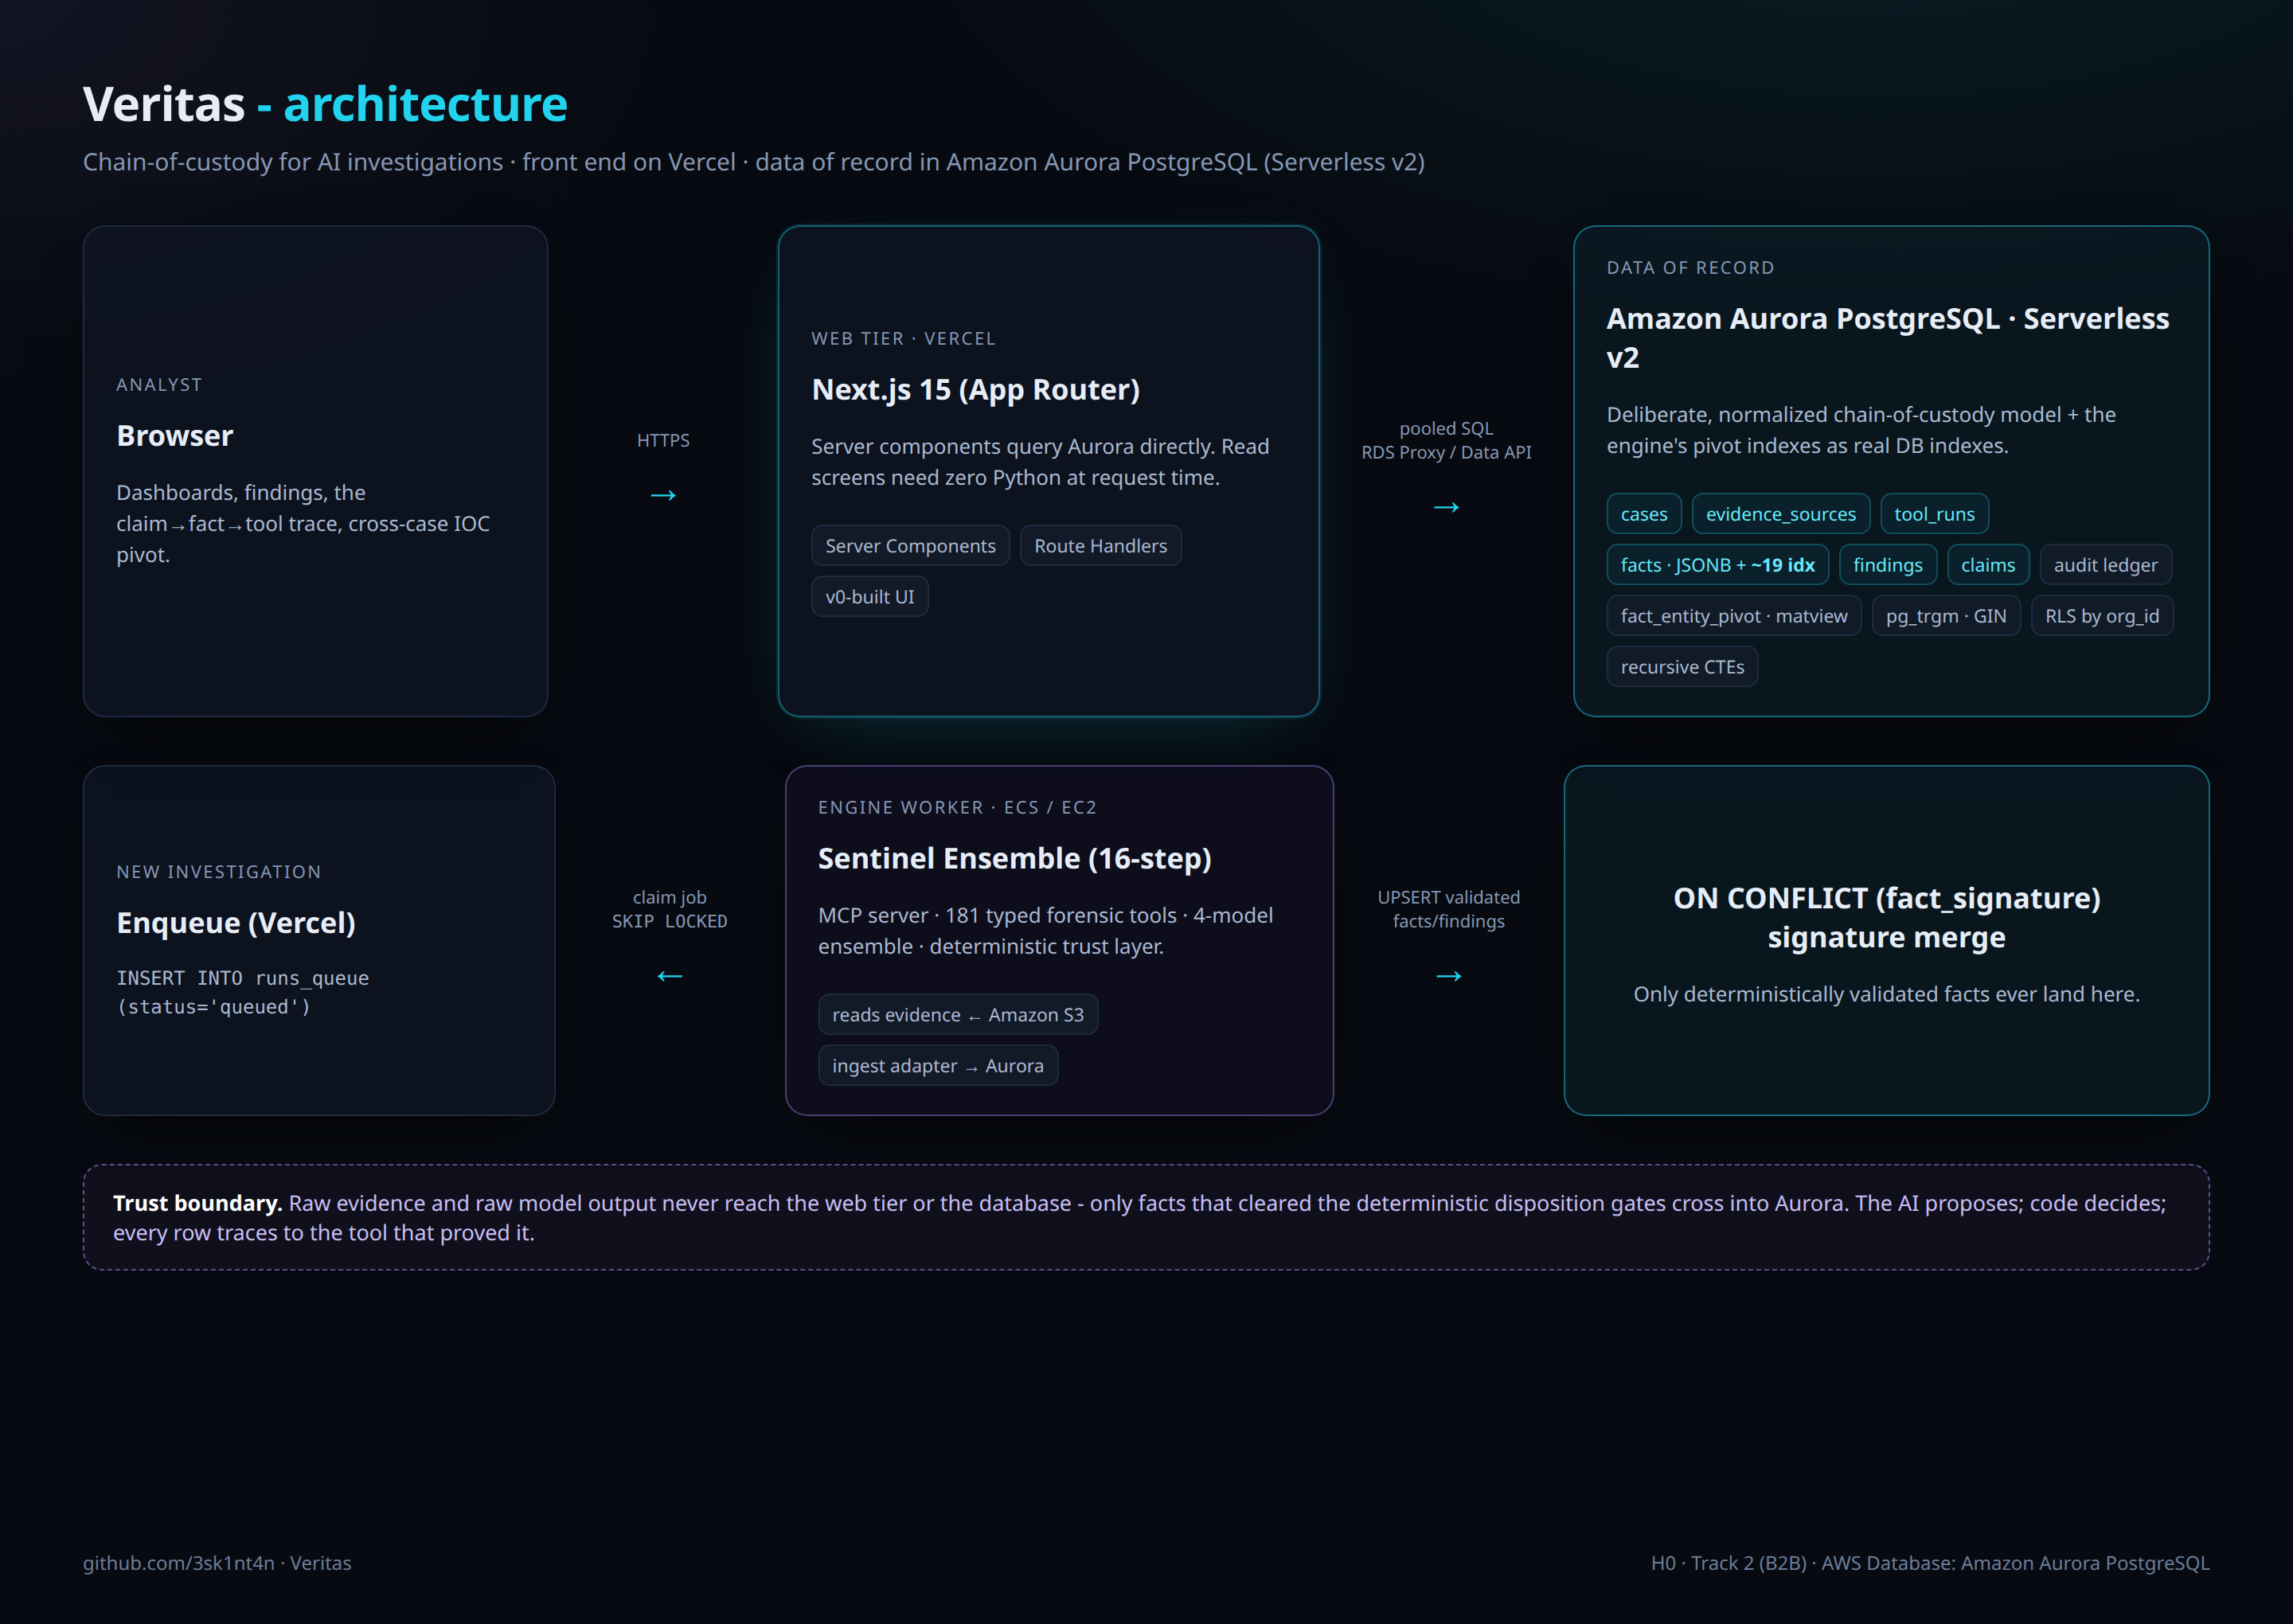
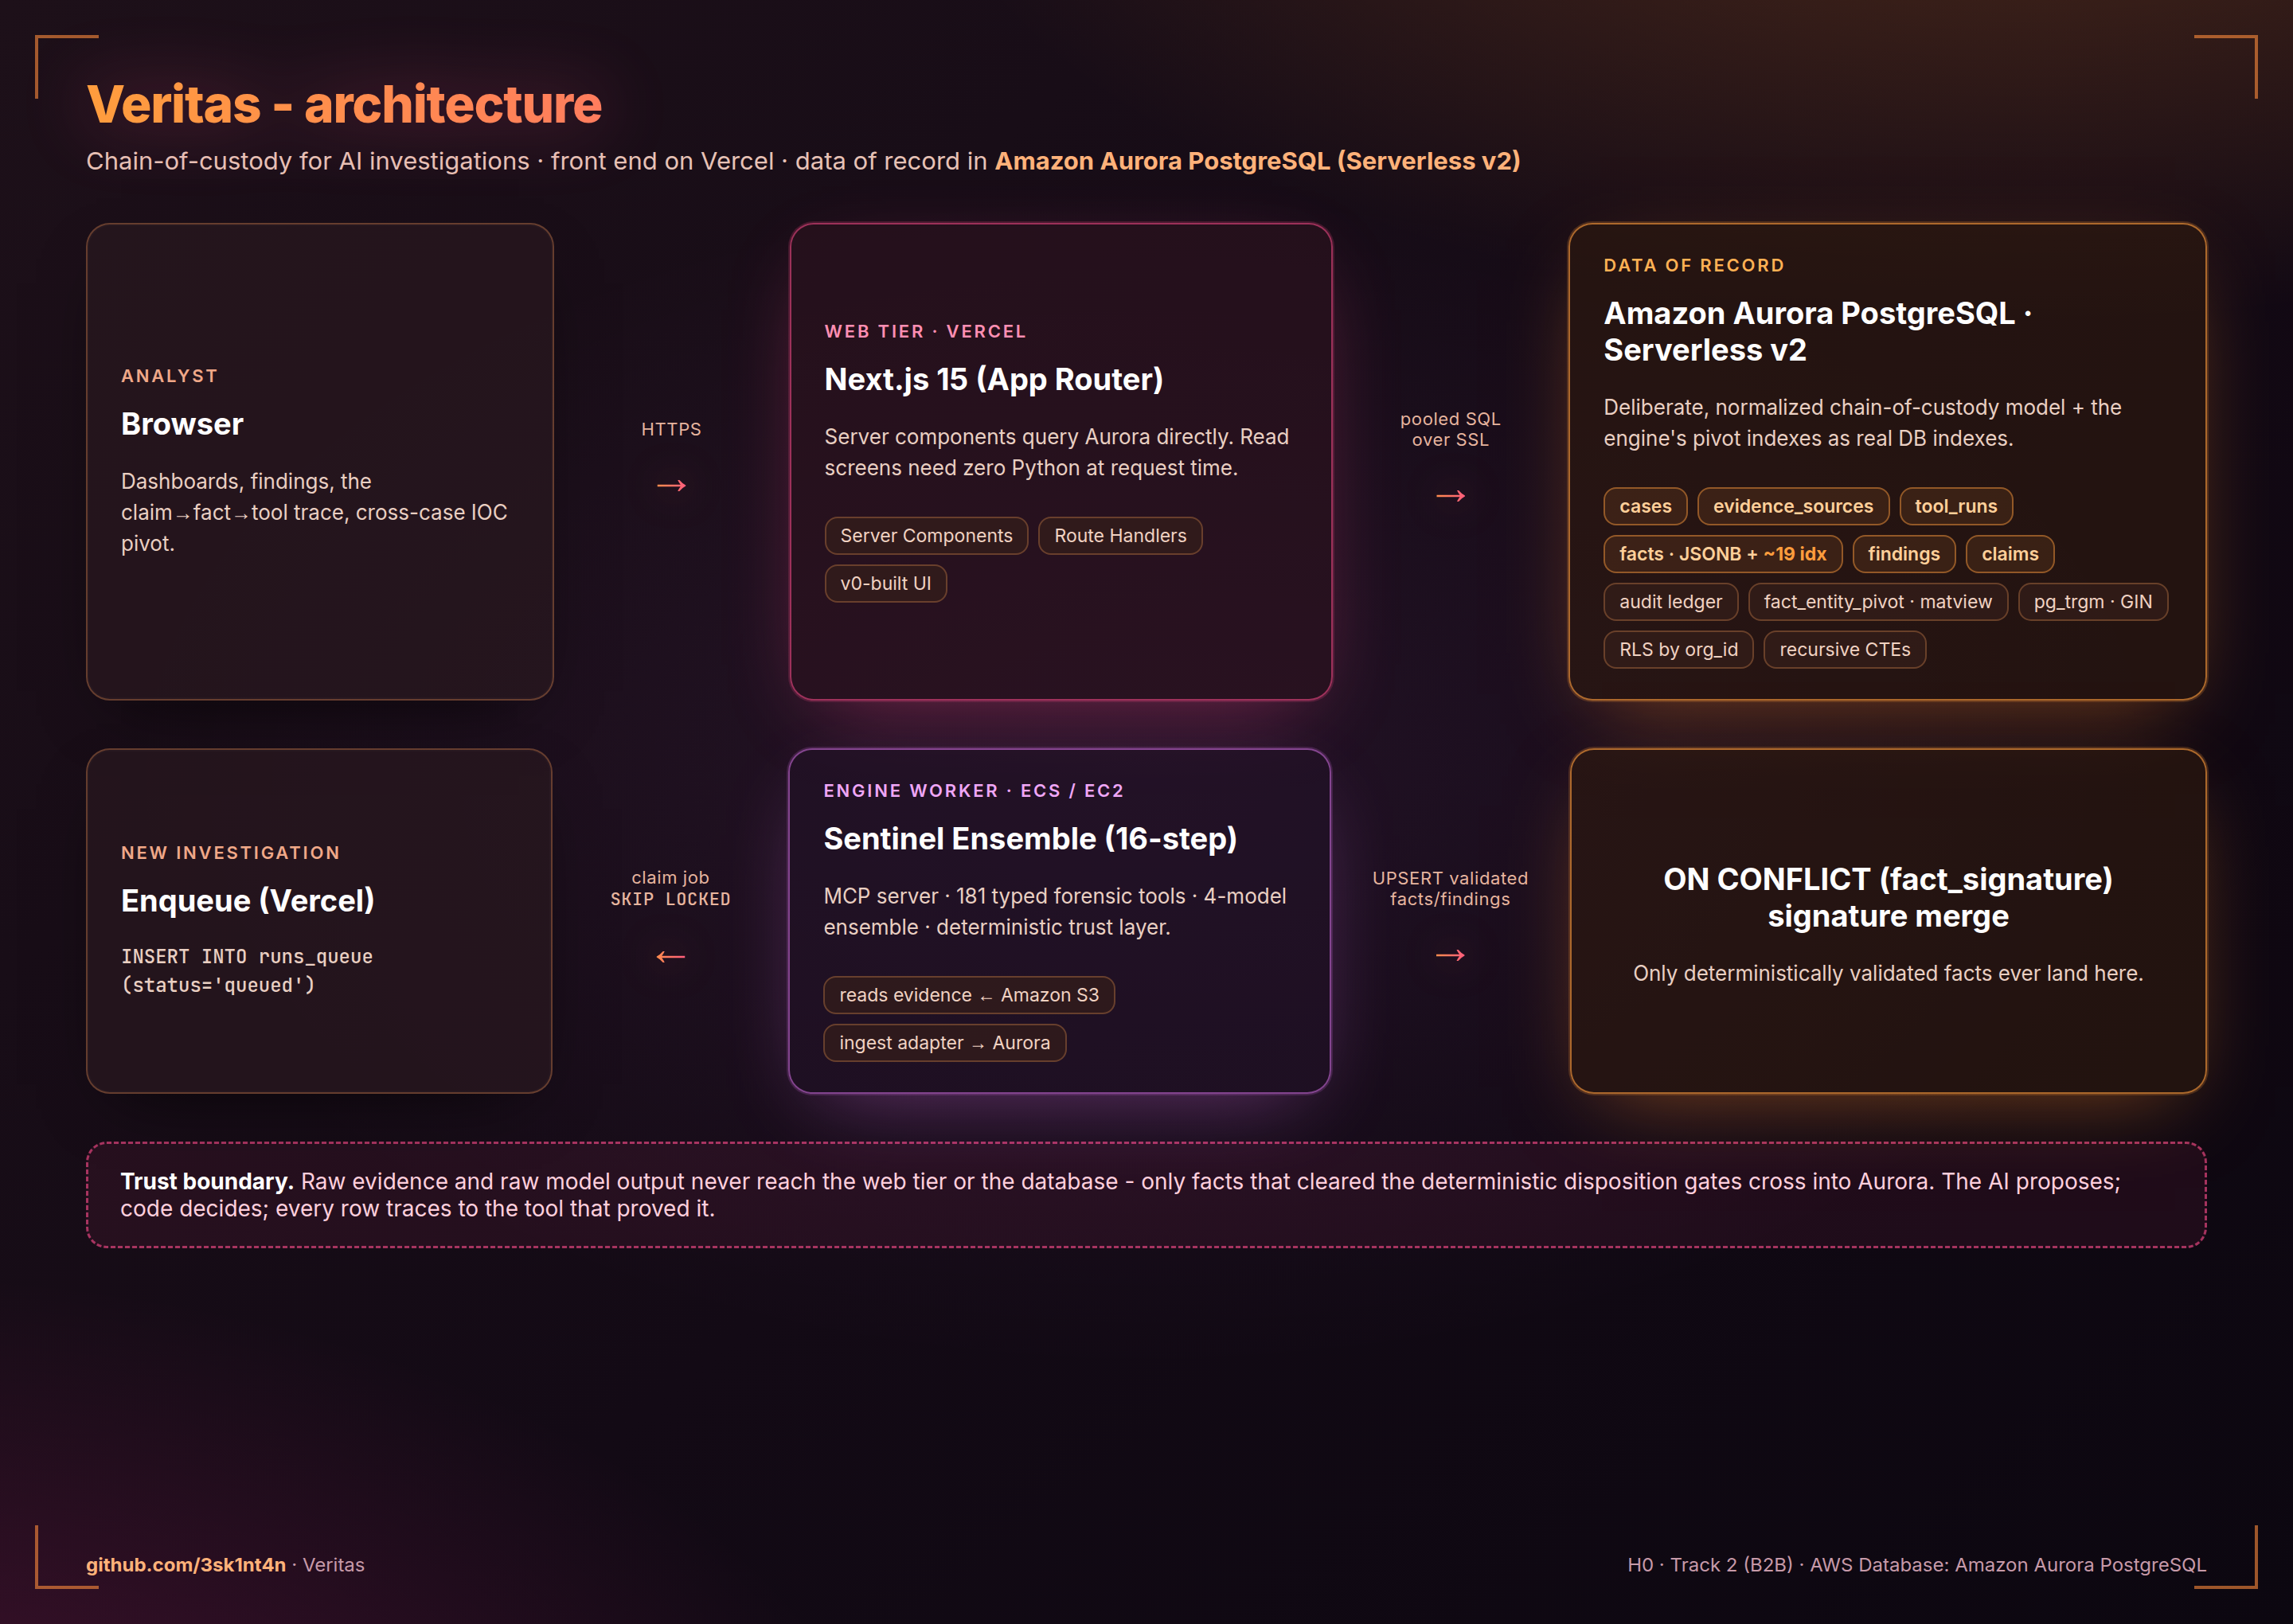
feat(video): bright orange/pink architecture diagram, open video on the pipeline
Redesign architecture.png with a warm bright palette (dark-orange + hot-pink + magenta
accents, vivid glows, sharp corner brackets) instead of the dark cyan look. Reorder the
deck so it COLD-OPENS on the pipeline diagram, then the title. Re-rendered at 2x; no em-dash.

diff --git a/docs/architecture.html b/docs/architecture.html
@@ -2,73 +2,97 @@
 <html lang="en">
 <head>
 <meta charset="utf-8" />
+<link rel="preconnect" href="https://fonts.googleapis.com">
+<link href="https://fonts.googleapis.com/css2?family=Inter:wght@400;600;700;800&family=JetBrains+Mono:wght@500;600&display=swap" rel="stylesheet">
 <style>
   * { margin: 0; padding: 0; box-sizing: border-box; }
   body {
-    width: 1440px; height: 1020px; padding: 44px 52px;
-    font-family: "Inter", system-ui, sans-serif; color: #e6edf6;
+    width: 1440px; height: 1020px; padding: 46px 54px;
+    font-family: "Inter", system-ui, sans-serif; color: #f6ecf0; position: relative;
     background:
-      radial-gradient(1100px 500px at 82% -8%, rgba(34,211,238,.10), transparent 60%),
-      radial-gradient(800px 460px at 0% 0%, rgba(167,139,250,.08), transparent 55%),
-      #070a10;
+      radial-gradient(1200px 560px at 88% -12%, rgba(255,140,40,.24), transparent 58%),
+      radial-gradient(1100px 640px at -6% 116%, rgba(255,45,149,.22), transparent 60%),
+      radial-gradient(900px 520px at 50% 48%, rgba(232,121,249,.07), transparent 72%),
+      linear-gradient(140deg, #1d1019 0%, #130a15 55%, #0c0710 100%);
   }
   .mono { font-family: "JetBrains Mono", ui-monospace, monospace; }
-  h1 { font-size: 30px; font-weight: 700; letter-spacing: -.5px; }
-  h1 .c { color: #22d3ee; }
-  .sub { color: #8597b3; font-size: 15px; margin-top: 6px; }
+  h1 { font-size: 32px; font-weight: 800; letter-spacing: -.6px;
+       background: linear-gradient(90deg,#ff9d3d,#ff4d8d 60%,#e879f9);
+       -webkit-background-clip: text; background-clip: text; color: transparent;
+       filter: drop-shadow(0 0 22px rgba(255,77,141,.40)); }
+  .sub { color: #e7c2b6; font-size: 15.5px; margin-top: 7px; }
+  .sub b { color: #ffb27a; }
   .row { display: flex; align-items: stretch; gap: 26px; margin-top: 30px; }
-  .box { border: 1px solid #1e2a40; border-radius: 14px; background: rgba(15,22,35,.75);
-         padding: 18px 20px; box-shadow: 0 14px 40px -22px #000; }
-  .box.brand { border-color: rgba(34,211,238,.4); box-shadow: 0 0 0 1px rgba(34,211,238,.12), 0 14px 50px -20px rgba(34,211,238,.25); }
-  .box.aurora { border-color: rgba(34,211,238,.45); background: rgba(11,30,40,.6); }
-  .box.engine { border-color: rgba(167,139,250,.4); background: rgba(20,16,40,.5); }
-  .tag { font-size: 11px; text-transform: uppercase; letter-spacing: 1.2px; color: #8597b3; }
-  .title { font-size: 18px; font-weight: 600; margin-top: 4px; }
-  .desc { font-size: 13px; color: #aab8cf; margin-top: 6px; line-height: 1.5; }
+  .box { border: 1px solid rgba(255,160,90,.30); border-radius: 15px; background: rgba(40,23,31,.72);
+         padding: 19px 21px; box-shadow: 0 16px 44px -22px rgba(0,0,0,.8), 0 0 0 1px rgba(255,255,255,.02) inset; }
+  .box.brand  { border-color: rgba(255,77,141,.55);  background: rgba(44,18,30,.66);
+                box-shadow: 0 0 0 1px rgba(255,77,141,.18), 0 16px 52px -20px rgba(255,77,141,.45); }
+  .box.aurora { border-color: rgba(255,157,61,.62);  background: rgba(46,26,14,.62);
+                box-shadow: 0 0 0 1px rgba(255,157,61,.20), 0 16px 52px -20px rgba(255,140,40,.50); }
+  .box.engine { border-color: rgba(232,121,249,.50); background: rgba(34,18,38,.62);
+                box-shadow: 0 0 0 1px rgba(232,121,249,.16), 0 16px 52px -20px rgba(232,121,249,.42); }
+  .tag { font-size: 11px; text-transform: uppercase; letter-spacing: 1.4px; color: #f0a888; font-weight: 600; }
+  .box.aurora .tag { color: #ffb154; }
+  .box.engine .tag { color: #efa6f6; }
+  .box.brand .tag  { color: #ff8fb3; }
+  .title { font-size: 19px; font-weight: 700; margin-top: 4px; color: #fff; }
+  .desc { font-size: 13px; color: #e9cfc2; margin-top: 7px; line-height: 1.5; }
   .col { display: flex; flex-direction: column; gap: 8px; justify-content: center; }
-  .arrow { display: flex; flex-direction: column; align-items: center; justify-content: center; color: #22d3ee; min-width: 92px; }
-  .arrow .lab { font-size: 11px; color: #8597b3; text-align: center; margin-bottom: 4px; }
-  .arrow .ln { font-size: 26px; }
-  .chips { display: flex; flex-wrap: wrap; gap: 6px; margin-top: 12px; }
-  .chip { border: 1px solid #1e2a40; background: rgba(20,29,43,.8); border-radius: 7px;
-          padding: 4px 8px; font-size: 11.5px; color: #aab8cf; }
-  .chip.k { color: #67e8f9; border-color: rgba(34,211,238,.25); background: rgba(34,211,238,.06); }
-  .idx { color: #67e8f9; font-weight: 600; }
-  .boundary { margin-top: 30px; border: 1px dashed rgba(167,139,250,.5); border-radius: 12px;
-              padding: 14px 18px; background: rgba(167,139,250,.05); font-size: 13.5px; color: #c9bdf3; }
+  .arrow { display: flex; flex-direction: column; align-items: center; justify-content: center; min-width: 96px; }
+  .arrow .lab { font-size: 11px; color: #e7b59f; text-align: center; margin-bottom: 5px; letter-spacing: .3px; }
+  .arrow .ln { font-size: 30px; font-weight: 800;
+       background: linear-gradient(90deg,#ff9d3d,#ff4d8d); -webkit-background-clip: text; background-clip: text;
+       color: transparent; filter: drop-shadow(0 0 12px rgba(255,120,90,.6)); }
+  .chips { display: flex; flex-wrap: wrap; gap: 6px; margin-top: 13px; }
+  .chip { border: 1px solid rgba(255,160,90,.28); background: rgba(52,30,26,.7); border-radius: 8px;
+          padding: 4px 9px; font-size: 11.5px; color: #f0d2c2; }
+  .chip.k { color: #ffd09a; border-color: rgba(255,157,61,.45); background: rgba(255,157,61,.10); font-weight: 600; }
+  .idx { color: #ff9d3d; font-weight: 700; }
+  .boundary { margin-top: 30px; border: 1.5px dashed rgba(255,77,141,.6); border-radius: 13px;
+              padding: 15px 20px; background: rgba(255,77,141,.07); font-size: 14px; color: #ffcfdd; }
   .boundary b { color: #fff; }
-  .foot { position: absolute; bottom: 30px; left: 52px; right: 52px; display:flex; justify-content: space-between;
-          font-size: 12px; color:#6b7d99; }
+  .foot { position: absolute; bottom: 30px; left: 54px; right: 54px; display: flex; justify-content: space-between;
+          font-size: 12px; color: #c79aa9; }
+  .foot b { color: #ffb27a; }
+  /* sharp warm corner brackets */
+  .corner { position: absolute; width: 40px; height: 40px; border: 2px solid rgba(255,140,60,.6); }
+  .ctl { top: 22px; left: 22px; border-right: 0; border-bottom: 0; }
+  .ctr { top: 22px; right: 22px; border-left: 0; border-bottom: 0; }
+  .cbl { bottom: 22px; left: 22px; border-right: 0; border-top: 0; }
+  .cbr { bottom: 22px; right: 22px; border-left: 0; border-top: 0; }
 </style>
 </head>
 <body>
-  <h1>Veritas <span class="c">- architecture</span></h1>
-  <div class="sub">Chain-of-custody for AI investigations · front end on Vercel · data of record in Amazon Aurora PostgreSQL (Serverless v2)</div>
+  <div class="corner ctl"></div><div class="corner ctr"></div>
+  <div class="corner cbl"></div><div class="corner cbr"></div>
+
+  <h1>Veritas - architecture</h1>
+  <div class="sub">Chain-of-custody for AI investigations &middot; front end on Vercel &middot; data of record in <b>Amazon Aurora PostgreSQL (Serverless v2)</b></div>
 
   <!-- read path -->
   <div class="row">
     <div class="box col" style="flex:1.05">
       <div class="tag">Analyst</div>
       <div class="title">Browser</div>
-      <div class="desc">Dashboards, findings, the claim→fact→tool trace, cross-case IOC pivot.</div>
+      <div class="desc">Dashboards, findings, the claim&rarr;fact&rarr;tool trace, cross-case IOC pivot.</div>
     </div>
-    <div class="arrow"><div class="lab">HTTPS</div><div class="ln">→</div></div>
+    <div class="arrow"><div class="lab">HTTPS</div><div class="ln">&rarr;</div></div>
     <div class="box brand col" style="flex:1.25">
-      <div class="tag">Web tier · Vercel</div>
+      <div class="tag">Web tier &middot; Vercel</div>
       <div class="title">Next.js 15 (App Router)</div>
       <div class="desc">Server components query Aurora directly. Read screens need zero Python at request time.</div>
       <div class="chips"><span class="chip">Server Components</span><span class="chip">Route Handlers</span><span class="chip">v0-built UI</span></div>
     </div>
-    <div class="arrow"><div class="lab">pooled SQL<br/>RDS Proxy / Data API</div><div class="ln">→</div></div>
+    <div class="arrow"><div class="lab">pooled SQL<br/>over SSL</div><div class="ln">&rarr;</div></div>
     <div class="box aurora col" style="flex:1.5">
       <div class="tag">Data of record</div>
-      <div class="title">Amazon Aurora PostgreSQL · Serverless v2</div>
+      <div class="title">Amazon Aurora PostgreSQL &middot; Serverless v2</div>
       <div class="desc">Deliberate, normalized chain-of-custody model + the engine's pivot indexes as real DB indexes.</div>
       <div class="chips">
         <span class="chip k">cases</span><span class="chip k">evidence_sources</span><span class="chip k">tool_runs</span>
-        <span class="chip k">facts · JSONB + <span class="idx">~19 idx</span></span><span class="chip k">findings</span>
-        <span class="chip k">claims</span><span class="chip">audit ledger</span><span class="chip">fact_entity_pivot · matview</span>
-        <span class="chip">pg_trgm · GIN</span><span class="chip">RLS by org_id</span><span class="chip">recursive CTEs</span>
+        <span class="chip k">facts &middot; JSONB + <span class="idx">~19 idx</span></span><span class="chip k">findings</span>
+        <span class="chip k">claims</span><span class="chip">audit ledger</span><span class="chip">fact_entity_pivot &middot; matview</span>
+        <span class="chip">pg_trgm &middot; GIN</span><span class="chip">RLS by org_id</span><span class="chip">recursive CTEs</span>
       </div>
     </div>
   </div>
@@ -80,14 +104,14 @@
       <div class="title">Enqueue (Vercel)</div>
       <div class="desc mono" style="font-size:12px">INSERT INTO runs_queue (status='queued')</div>
     </div>
-    <div class="arrow"><div class="lab">claim job<br/><span class="mono">SKIP LOCKED</span></div><div class="ln">←</div></div>
+    <div class="arrow"><div class="lab">claim job<br/><span class="mono">SKIP LOCKED</span></div><div class="ln">&larr;</div></div>
     <div class="box engine col" style="flex:1.25">
-      <div class="tag">Engine worker · ECS / EC2</div>
+      <div class="tag">Engine worker &middot; ECS / EC2</div>
       <div class="title">Sentinel Ensemble (16-step)</div>
-      <div class="desc">MCP server · 181 typed forensic tools · 4-model ensemble · deterministic trust layer.</div>
-      <div class="chips"><span class="chip">reads evidence ← Amazon S3</span><span class="chip">ingest adapter → Aurora</span></div>
+      <div class="desc">MCP server &middot; 181 typed forensic tools &middot; 4-model ensemble &middot; deterministic trust layer.</div>
+      <div class="chips"><span class="chip">reads evidence &larr; Amazon S3</span><span class="chip">ingest adapter &rarr; Aurora</span></div>
     </div>
-    <div class="arrow"><div class="lab">UPSERT validated<br/>facts/findings</div><div class="ln">→</div></div>
+    <div class="arrow"><div class="lab">UPSERT validated<br/>facts/findings</div><div class="ln">&rarr;</div></div>
     <div class="box aurora col" style="flex:1.5; align-items:center; justify-content:center">
       <div class="title" style="text-align:center">ON CONFLICT (fact_signature)<br/>signature merge</div>
       <div class="desc" style="text-align:center">Only deterministically validated facts ever land here.</div>
@@ -99,6 +123,6 @@
     only facts that cleared the deterministic disposition gates cross into Aurora. The AI proposes; code decides; every row traces to the tool that proved it.
   </div>
 
-  <div class="foot"><span>github.com/3sk1nt4n · Veritas</span><span>H0 · Track 2 (B2B) · AWS Database: Amazon Aurora PostgreSQL</span></div>
+  <div class="foot"><span><b>github.com/3sk1nt4n</b> &middot; Veritas</span><span>H0 &middot; Track 2 (B2B) &middot; AWS Database: Amazon Aurora PostgreSQL</span></div>
 </body>
 </html>

diff --git a/docs/build_video.py b/docs/build_video.py
@@ -214,11 +214,12 @@ AURORA_BULLETS = [
 
 # each slide: {dur, states:[html,...], heavy:bool}
 SLIDES = [
+    # cold open on the pipeline / architecture
+    {"dur": 5.5, "heavy": True, "states": [full(ARCH,
+            "The system: a Vercel front end, Amazon Aurora as the system of record, an engine worker behind a trust boundary.")]},
     {"dur": 5.0, "states": [cover("H0 &middot; Track 2 (B2B) &middot; Amazon Aurora PostgreSQL + Vercel",
             'VERI<span class="c">TAS</span>',
             'The investigation platform where the AI <span class="thesis">never gets the final word.</span>')]},
-    {"dur": 6.5, "heavy": True, "states": [full(ARCH,
-            "The system at a glance: a Vercel front end, Amazon Aurora as the system of record, an engine worker behind a trust boundary.")]},
 
     # ---- Q1 ----
     {"dur": 6.0, "states": [statement("Answering the brief &middot; 1 of 3",